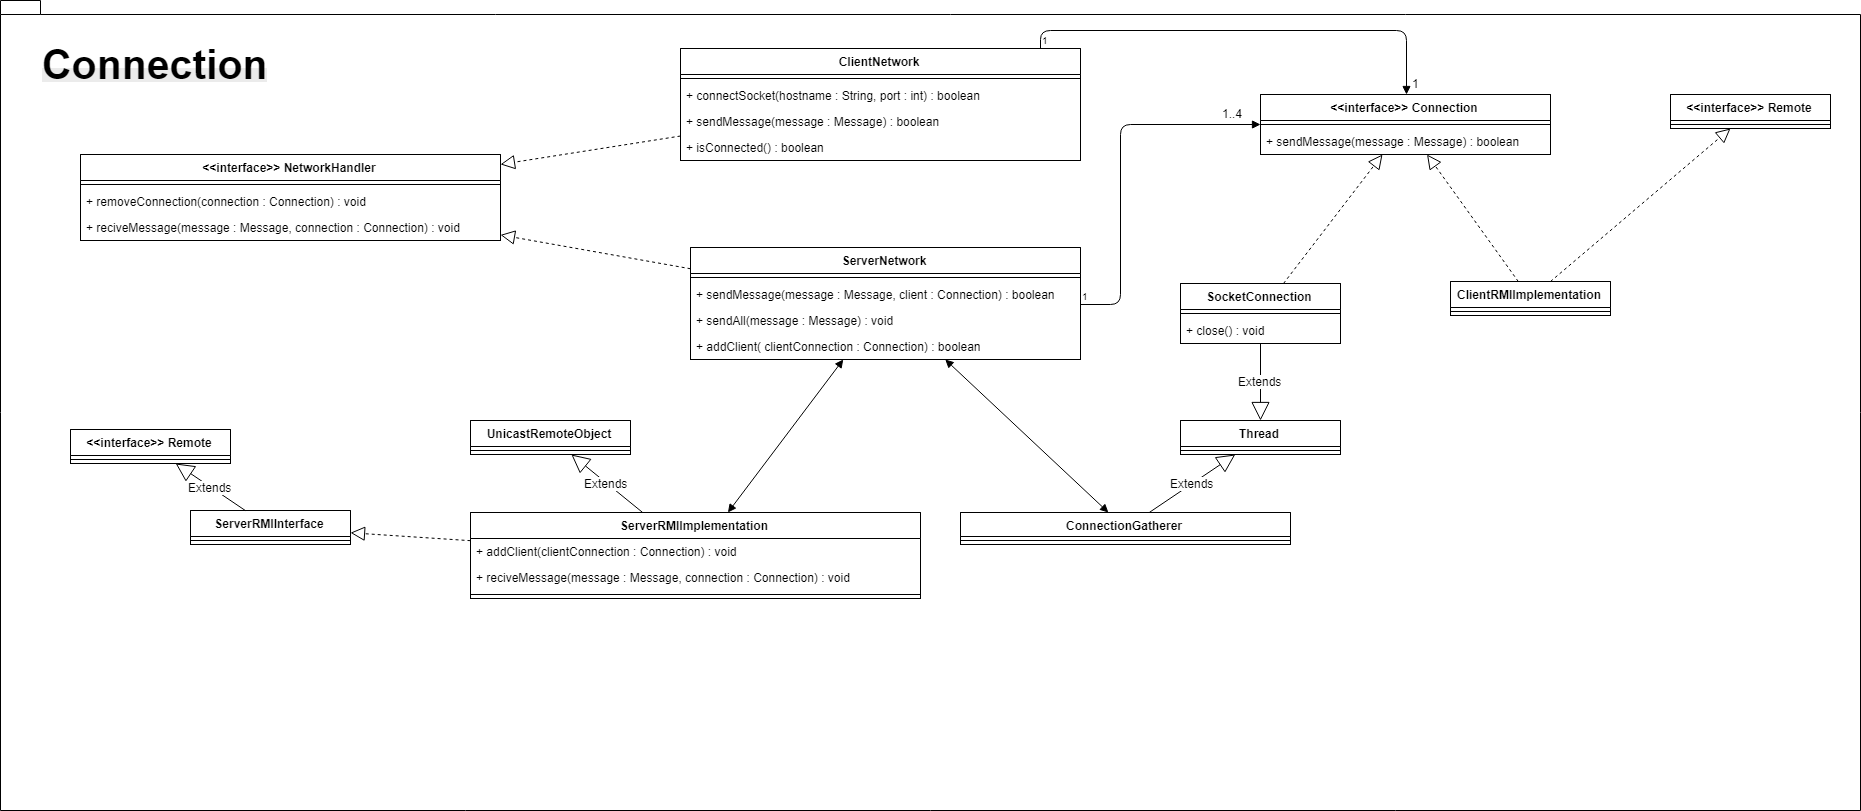
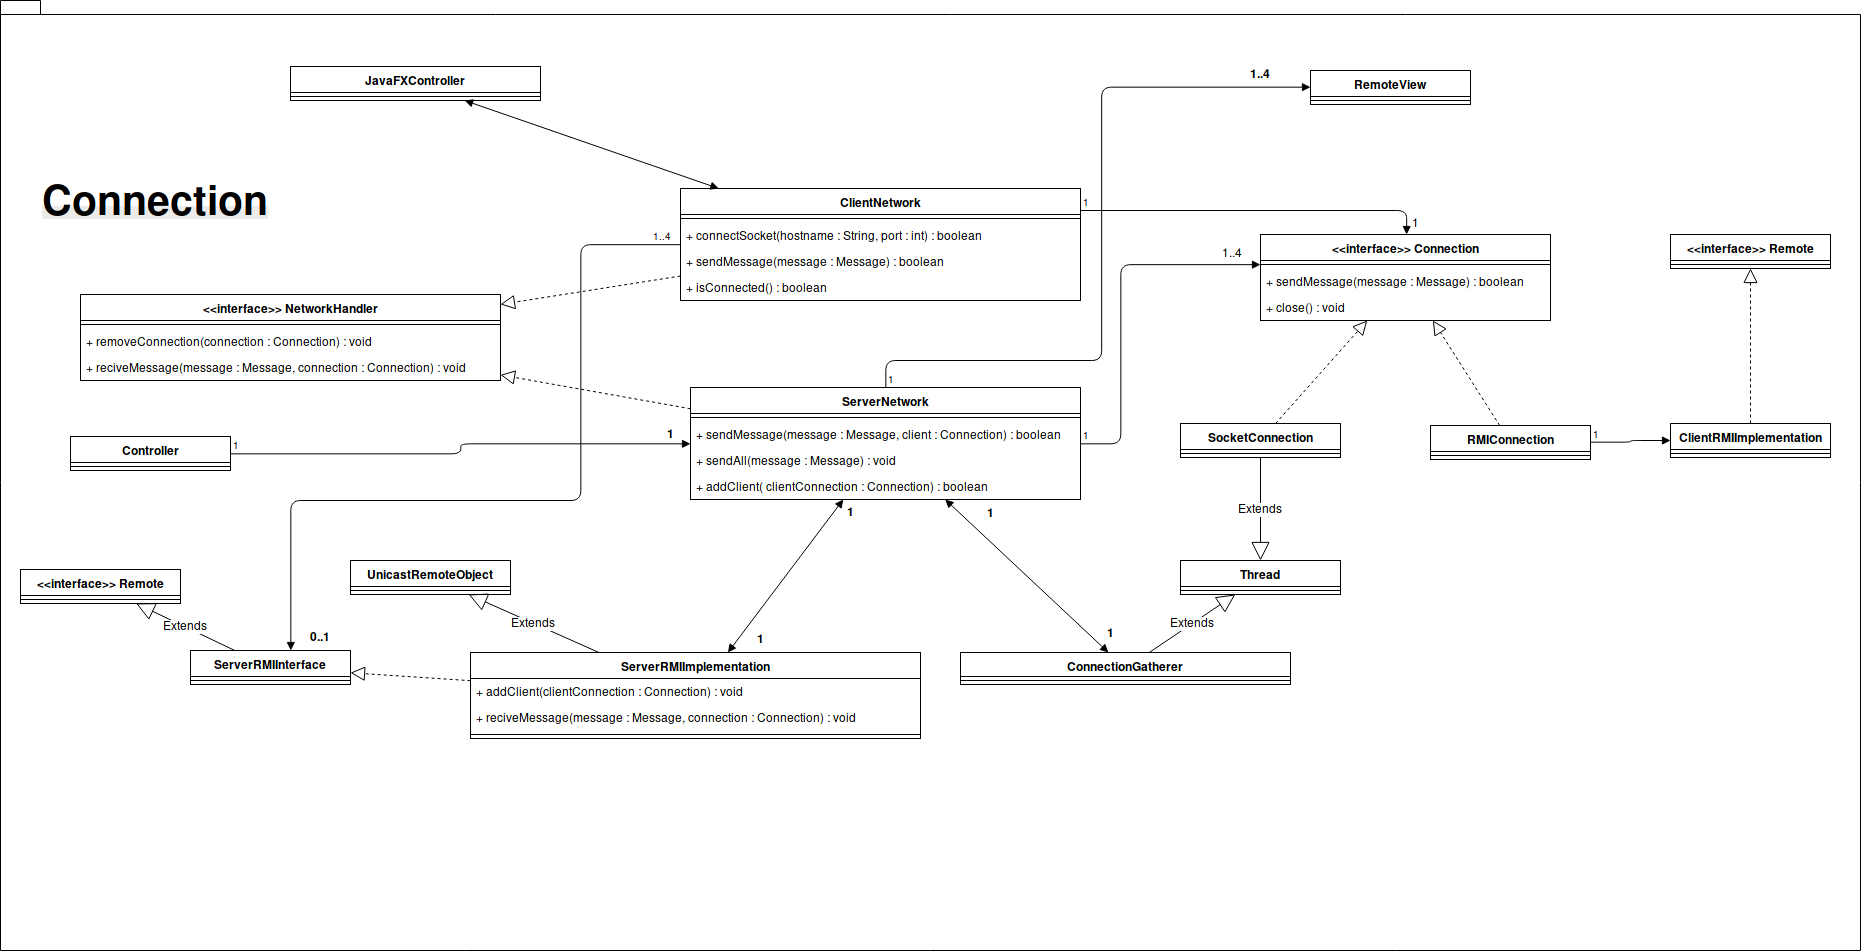
Aggiunti deliveries sistemata parte RMI di rete

diff --git a/src/main/java/it/polimi/se2018/client/ClientNetwork.java b/src/main/java/it/polimi/se2018/client/ClientNetwork.java
@@ -24,7 +24,8 @@ import java.rmi.server.UnicastRemoteObject;
 public class ClientNetwork implements NetworkHandler {
     private Controller controller;
     private Connection connection;
-
+    private ServerRMIInterface serverRMIInterface;
+    private int connectionType = 0;
     /**
      * Constructor
      * @param controller controller
@@ -45,8 +46,10 @@ public class ClientNetwork implements NetworkHandler {
             try {
                 socket = new Socket(hostname, port);
                 connection = new SocketConnection(this, socket);
+                connectionType = 1;
                 return true;
             } catch (IOException e) {
+                connectionType = 0;
                 return false;
             }
         }else{
@@ -61,18 +64,19 @@ public class ClientNetwork implements NetworkHandler {
      */
     public boolean connectRMI(String hostname){
         if(!isConnected()){
-            ServerRMIInterface server;
             try {
-                server = (ServerRMIInterface)Naming.lookup("//".concat(hostname.concat("/MyServer")));
+                serverRMIInterface = (ServerRMIInterface)Naming.lookup("//".concat(hostname.concat("/MyServer")));
 
                 connection = new RMIConnection(new ClientRMIImplementation());
 
                 RMIConnection remoteRef = (RMIConnection) UnicastRemoteObject.exportObject((Remote) connection, 0);
 
-                return server.addClient(remoteRef);
+                connectionType = 2;
+                return serverRMIInterface.addClient(remoteRef);
 
             } catch (MalformedURLException | RemoteException | NotBoundException e) {
                 System.out.println(e);
+                connectionType = 0;
                 return false;
             }
         }else{
@@ -109,10 +113,20 @@ public class ClientNetwork implements NetworkHandler {
      */
     public boolean sendMessage(Message message){
         if(isConnected()){
-            return connection.sendMessage(message);
+            if(connectionType == 1){
+                return connection.sendMessage(message);
+            }else if(connectionType == 2){
+                try{
+                    serverRMIInterface.reciveMessage(message,connection);
+                    return true;
+                }catch (RemoteException e){
+                    return false;
+                }
+            }
         }else{
             return false;
         }
+        return false;
     }
 
     /**
@@ -121,6 +135,9 @@ public class ClientNetwork implements NetworkHandler {
      */
     public void removeConnection(Connection connection) {
         this.connection = null;
+        if(connectionType == 2){
+            serverRMIInterface = null;
+        }
     }
 
 }

diff --git a/src/main/java/it/polimi/se2018/server/ServerNetwork.java b/src/main/java/it/polimi/se2018/server/ServerNetwork.java
@@ -1,5 +1,6 @@
 package it.polimi.se2018.server;
 
+import it.polimi.se2018.controller.RemoteView;
 import it.polimi.se2018.utils.ClientMessage;
 import it.polimi.se2018.utils.network.Connection;
 import it.polimi.se2018.utils.Message;
@@ -15,11 +16,12 @@ import java.util.*;
  * Manages the connections with the clients
  * @author Alessio
  */
-public class ServerNetwork implements NetworkHandler {
+public class ServerNetwork extends Observable implements NetworkHandler {
     private SocketConnectionGatherer connectionGatherer;
     private ServerRMIImplementation serverRMIImplementation;
     private boolean lobbyWaiting = true;
     private Map<Long,Connection> connectionMap = new HashMap<>();
+    private Map<Connection,RemoteView> remoteMap = new HashMap<>();
 
     /**
      * Costructor
@@ -49,7 +51,7 @@ public class ServerNetwork implements NetworkHandler {
             public void run() {
                 lobbyWaiting = false;
             }
-        }, 60*1000);
+        }, (long) 60*1000);
     }
 
     /**
@@ -62,6 +64,7 @@ public class ServerNetwork implements NetworkHandler {
             clientMessage = clientConnection.waitInitializationMessage();
             if(clientMessage != null){
                 connectionMap.put(clientMessage.getId(),clientConnection);
+                //aggiungi remoteview
                 return true;
             }
         }else if(connectionMap.size() <= 4 && !lobbyWaiting) {
@@ -70,6 +73,7 @@ public class ServerNetwork implements NetworkHandler {
             if(connectionMap.get(clientMessage.getId()) != null){
                 if(!connectionMap.get(clientMessage.getId()).isConnected()){
                     connectionMap.put(clientMessage.getId(),clientConnection);
+                    //aggiungi remoteview
                     return true;
                 }
             }
@@ -111,7 +115,10 @@ public class ServerNetwork implements NetworkHandler {
      * @param clientConnection connection
      */
     public void reciveMessage(Message message,Connection clientConnection){
-        //notifica remoteView
+        /**if(remoteMap.containsKey(clientConnection)){
+            remoteMap.get(clientConnection).handleMessage(message);
+        }*/
+
     }
 
 }

diff --git a/src/main/java/it/polimi/se2018/utils/network/SocketConnection.java b/src/main/java/it/polimi/se2018/utils/network/SocketConnection.java
@@ -1,14 +1,18 @@
 package it.polimi.se2018.utils.network;
 
+import it.polimi.se2018.controller.RemoteView;
 import it.polimi.se2018.utils.ClientMessage;
 import it.polimi.se2018.utils.enums.MessageType;
 import it.polimi.se2018.utils.network.Connection;
 import it.polimi.se2018.utils.Message;
+import javafx.beans.InvalidationListener;
 
 import java.io.IOException;
 import java.io.ObjectInputStream;
 import java.io.ObjectOutputStream;
 import java.net.Socket;
+import java.rmi.Remote;
+import java.util.ArrayList;
 
 /**
  * Socket connection
@@ -20,6 +24,7 @@ public class SocketConnection extends Thread implements Connection {
     private ObjectOutputStream out;
     private ObjectInputStream in;
     private boolean connected = true;
+    private ArrayList<RemoteView> observers = new ArrayList<>();
 
     /**
      * Costructor

diff --git a/src/main/java/it/polimi/se2018/server/ServerRMIImplementation.java b/src/main/java/it/polimi/se2018/server/ServerRMIImplementation.java
@@ -1,5 +1,6 @@
 package it.polimi.se2018.server;
 
+import it.polimi.se2018.utils.ClientMessage;
 import it.polimi.se2018.utils.network.Connection;
 import it.polimi.se2018.utils.Message;
 
@@ -33,11 +34,12 @@ public class ServerRMIImplementation extends UnicastRemoteObject implements Serv
     }
 
     /**
-      * Method called by the clinet to send a message to the server
+      * Method called by the client to send a message to the server
       * @param message message to send
      * @param connection connection
      */
     public void reciveMessage(Message message,Connection connection) throws RemoteException{
         serverNetwork.reciveMessage(message,connection);
     }
+
 }

diff --git a/src/main/java/it/polimi/se2018/utils/network/Connection.java b/src/main/java/it/polimi/se2018/utils/network/Connection.java
@@ -4,6 +4,8 @@ import it.polimi.se2018.model.ModelView;
 import it.polimi.se2018.utils.ClientMessage;
 import it.polimi.se2018.utils.Message;
 
+import java.util.Observable;
+
 /**
  * Connection interface, implemented by SocketConnection and RMIconnection
  * @author Alessio
